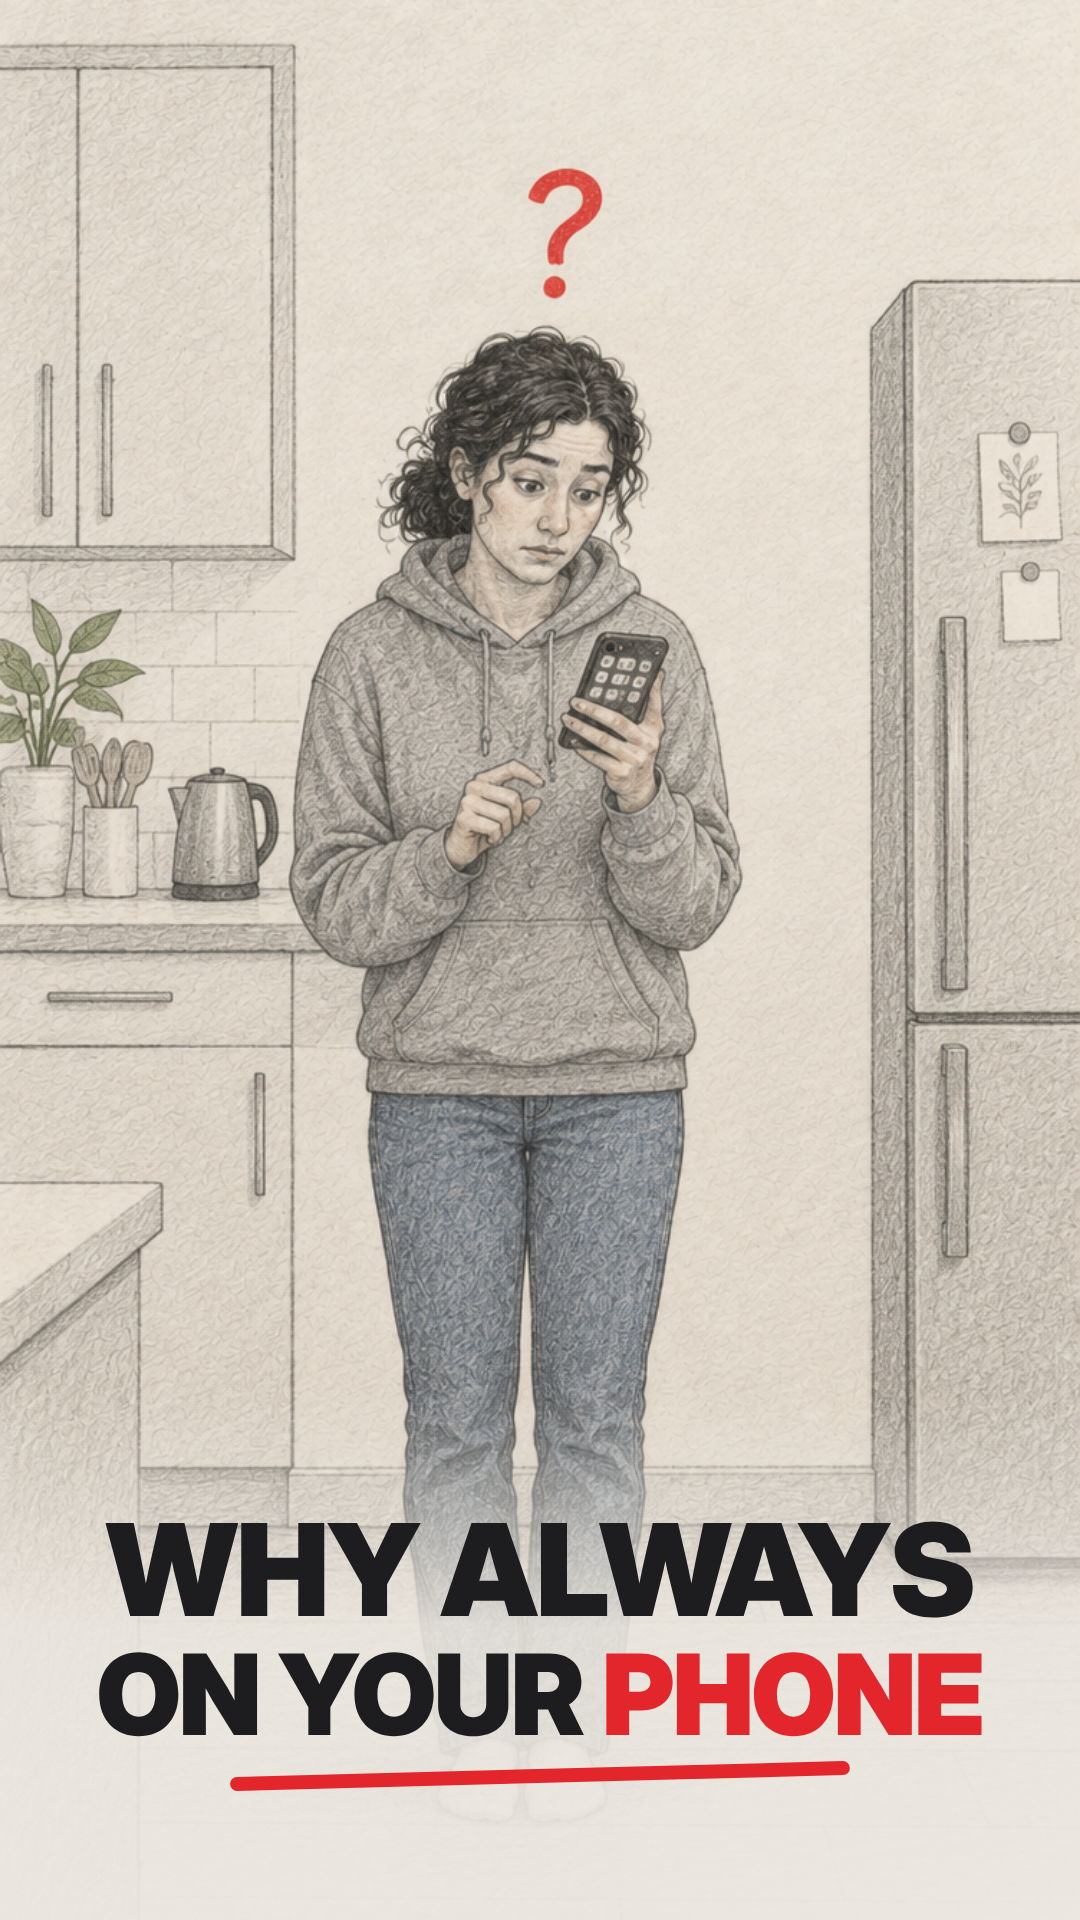
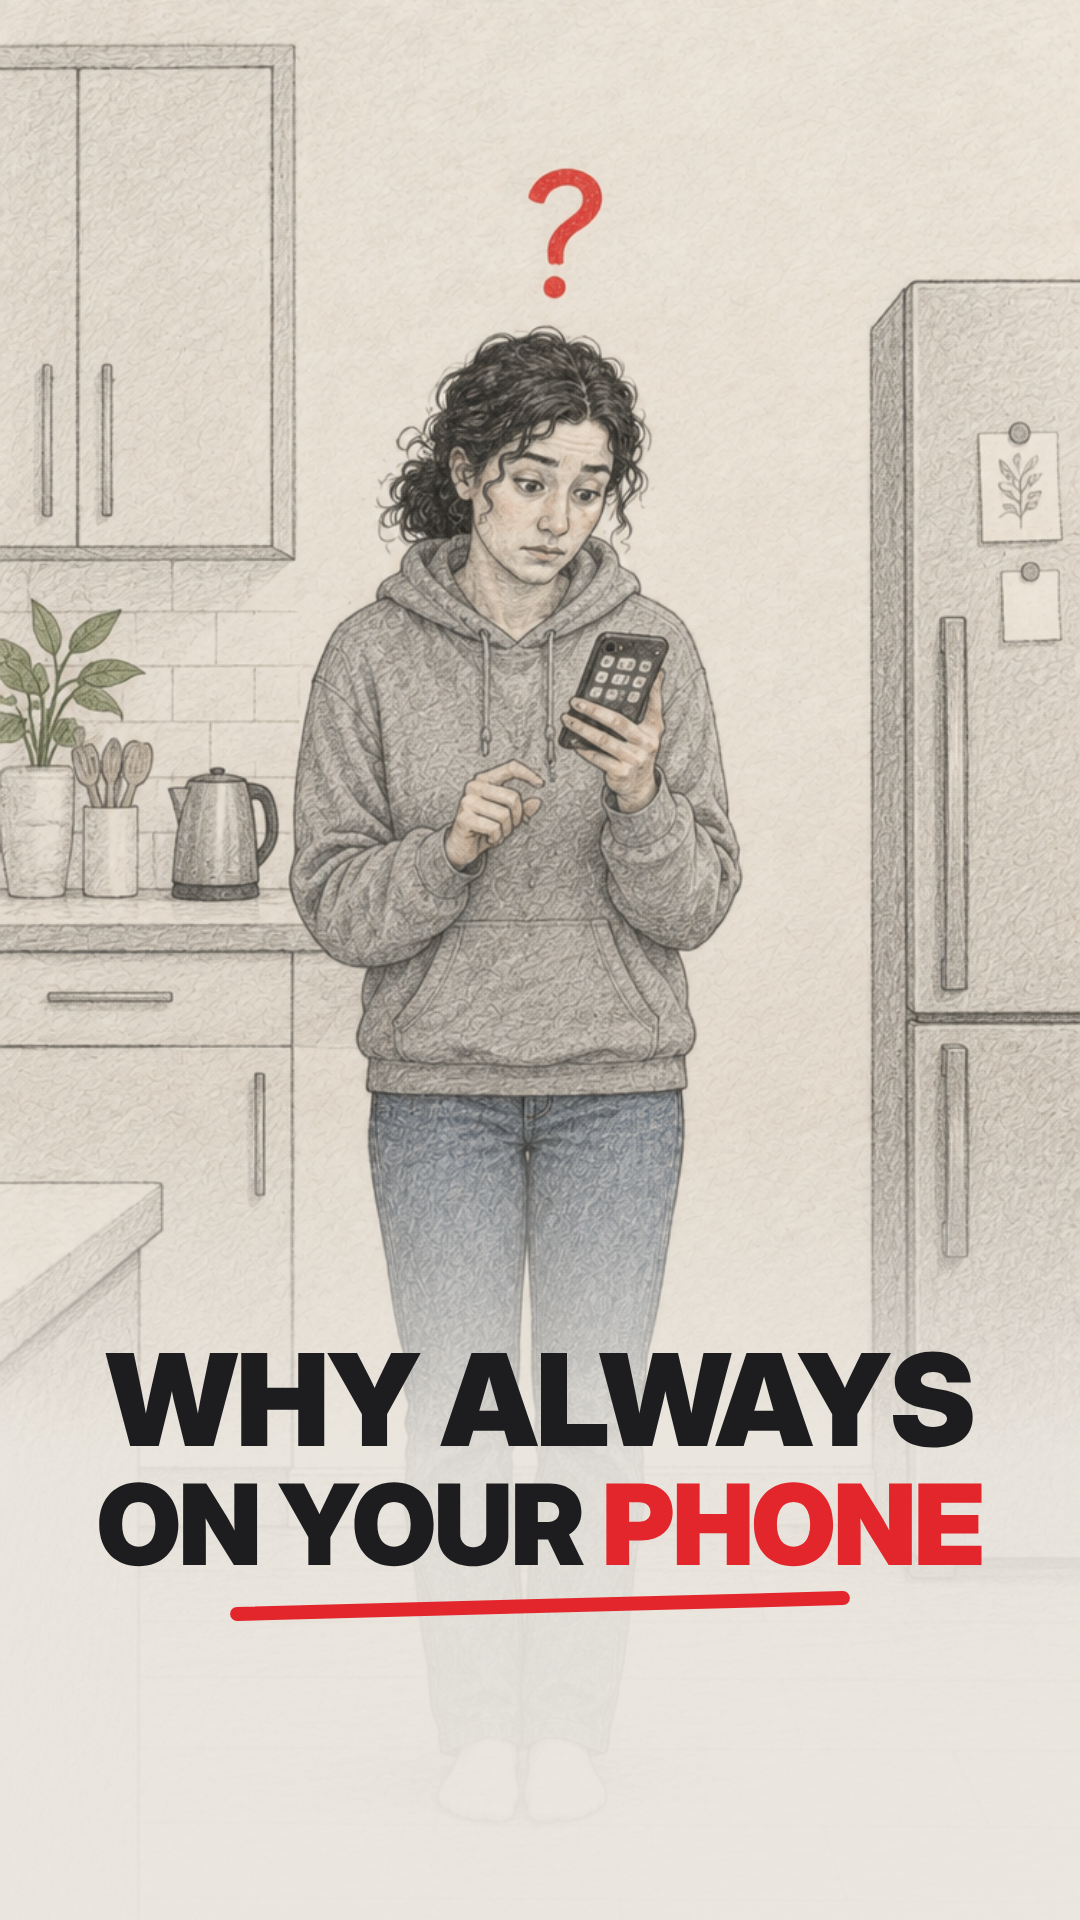
Move kitchen thumbnail title up
Claude-Session: https://claude.ai/code/session_01BSxZXk75ozX9TVKL5xjBU9

Changed region(s): [[0.0, 0.5938, 1.0, 0.9375]]

diff --git a/thumbnail/thumbnail-v2.html b/thumbnail/thumbnail-v2.html
@@ -4,9 +4,9 @@
 *{margin:0;padding:0;box-sizing:border-box}
 html,body{width:1080px;height:1920px;overflow:hidden;background:#ece8e1}
 img{position:absolute;inset:0;width:1080px;height:1920px;object-fit:cover}
-.fade{position:absolute;left:0;right:0;bottom:0;height:620px;
+.fade{position:absolute;left:0;right:0;bottom:0;height:900px;
   background:linear-gradient(180deg,rgba(236,232,225,0) 0%,rgba(236,232,225,.88) 38%,rgba(236,232,225,.96) 100%)}
-.title{position:absolute;left:0;right:0;bottom:230px;text-align:center;white-space:nowrap;
+.title{position:absolute;left:0;right:0;bottom:400px;text-align:center;white-space:nowrap;
   font-family:"Inter Display","Inter",sans-serif;font-weight:900;text-transform:uppercase;
   color:#1d1d1f;line-height:.95;letter-spacing:-2px}
 .l1{font-size:128px}
